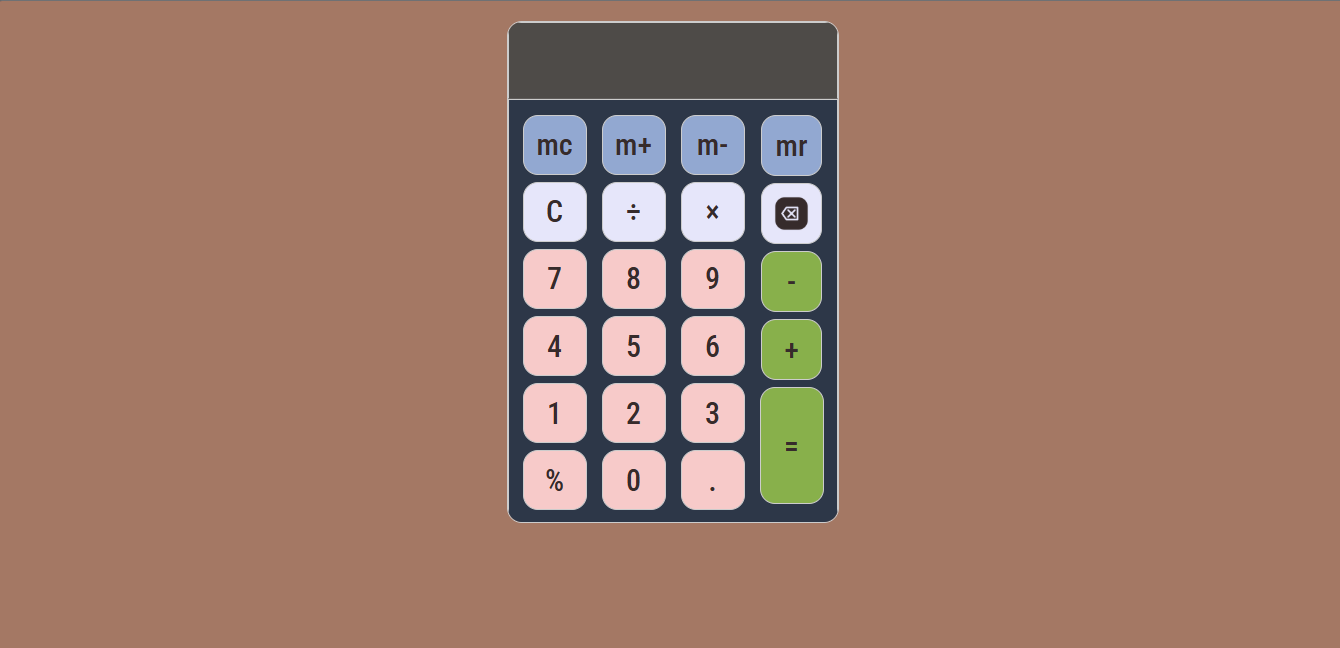
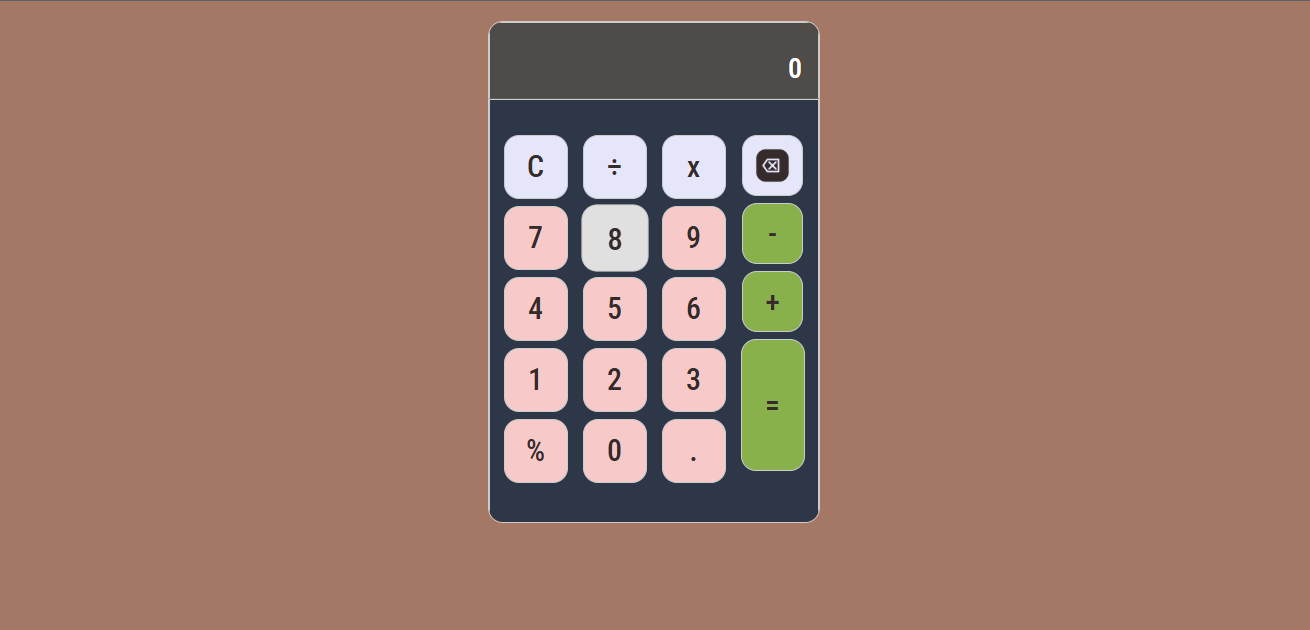
Adding preview & modifying README.md

Changed region(s): [[0.3664, 0.0302, 0.6412, 0.8444], [0.5802, 0.0905, 0.6107, 0.1206]]

diff --git a/index.css b/index.css
@@ -86,5 +86,6 @@ body{
     padding-right: 1rem;  
     align-items: center; 
     /* background-color: green; */
+    color: white;
 
 }

diff --git a/README.md b/README.md
@@ -1,27 +1,76 @@
-# Calculator UI
+# 🧮 Calculator
 
-A simple calculator user interface built using HTML and CSS.
+A simple calculator built with **HTML, CSS, and Vanilla JavaScript**.
 
-## 🚀 Features
-
-* Clean layout using Flexbox
-* Interactive hover and click effects
-* Button-based calculator design
-
-## 🛠 Tech Used
-
-* HTML
-* CSS
-
-## 📌 Project Status
-
-UI completed.
-Functionality (JavaScript) will be added in future.
-
-## 📷 Preview
-
-![Calculator UI](preview.png)
+This project was created to practice JavaScript fundamentals by implementing calculator logic from scratch—without using `eval()`. Along the way, I learned how to manage application state, handle user interactions, and build a responsive interface.
 
 ---
 
-Made for practice and learning frontend development.
+## ✨ Features
+
+* ➕ Addition
+* ➖ Subtraction
+* ✖ Multiplication
+* ➗ Division
+* 📊 Percentage calculations
+* 🔢 Decimal number support
+* ⌫ Backspace/Delete button
+* 🧹 Clear (`C`) button
+* 🔄 Chained calculations
+* ⚠ Division-by-zero error handling
+* 🎨 Interactive button hover & click animations
+
+---
+
+## 🛠 Built With
+
+* HTML5
+* CSS3
+* Vanilla JavaScript
+
+---
+
+## 📸 Preview
+
+![Calculator Screenshot](./preview.png)
+
+> Replace the image above with your own screenshot.
+
+---
+
+## 🚀 Getting Started
+
+Clone the repository:
+
+```bash
+git clone https://github.com/<your-username>/calculator.git
+```
+
+Open `index.html` in your browser, and you're ready to use the calculator.
+
+---
+
+## 📚 What I Learned
+
+Building this project helped me understand:
+
+* DOM manipulation
+* Event listeners
+* Managing application state
+* JavaScript functions
+* Error handling
+* Writing cleaner, modular code
+
+---
+
+## 💡 Future Improvements
+
+* Keyboard support
+* Scientific calculator functions
+* Calculation history
+* Light/Dark mode
+* Better formatting for large numbers
+
+---
+
+⭐ If you liked this project, feel free to star the repository!
